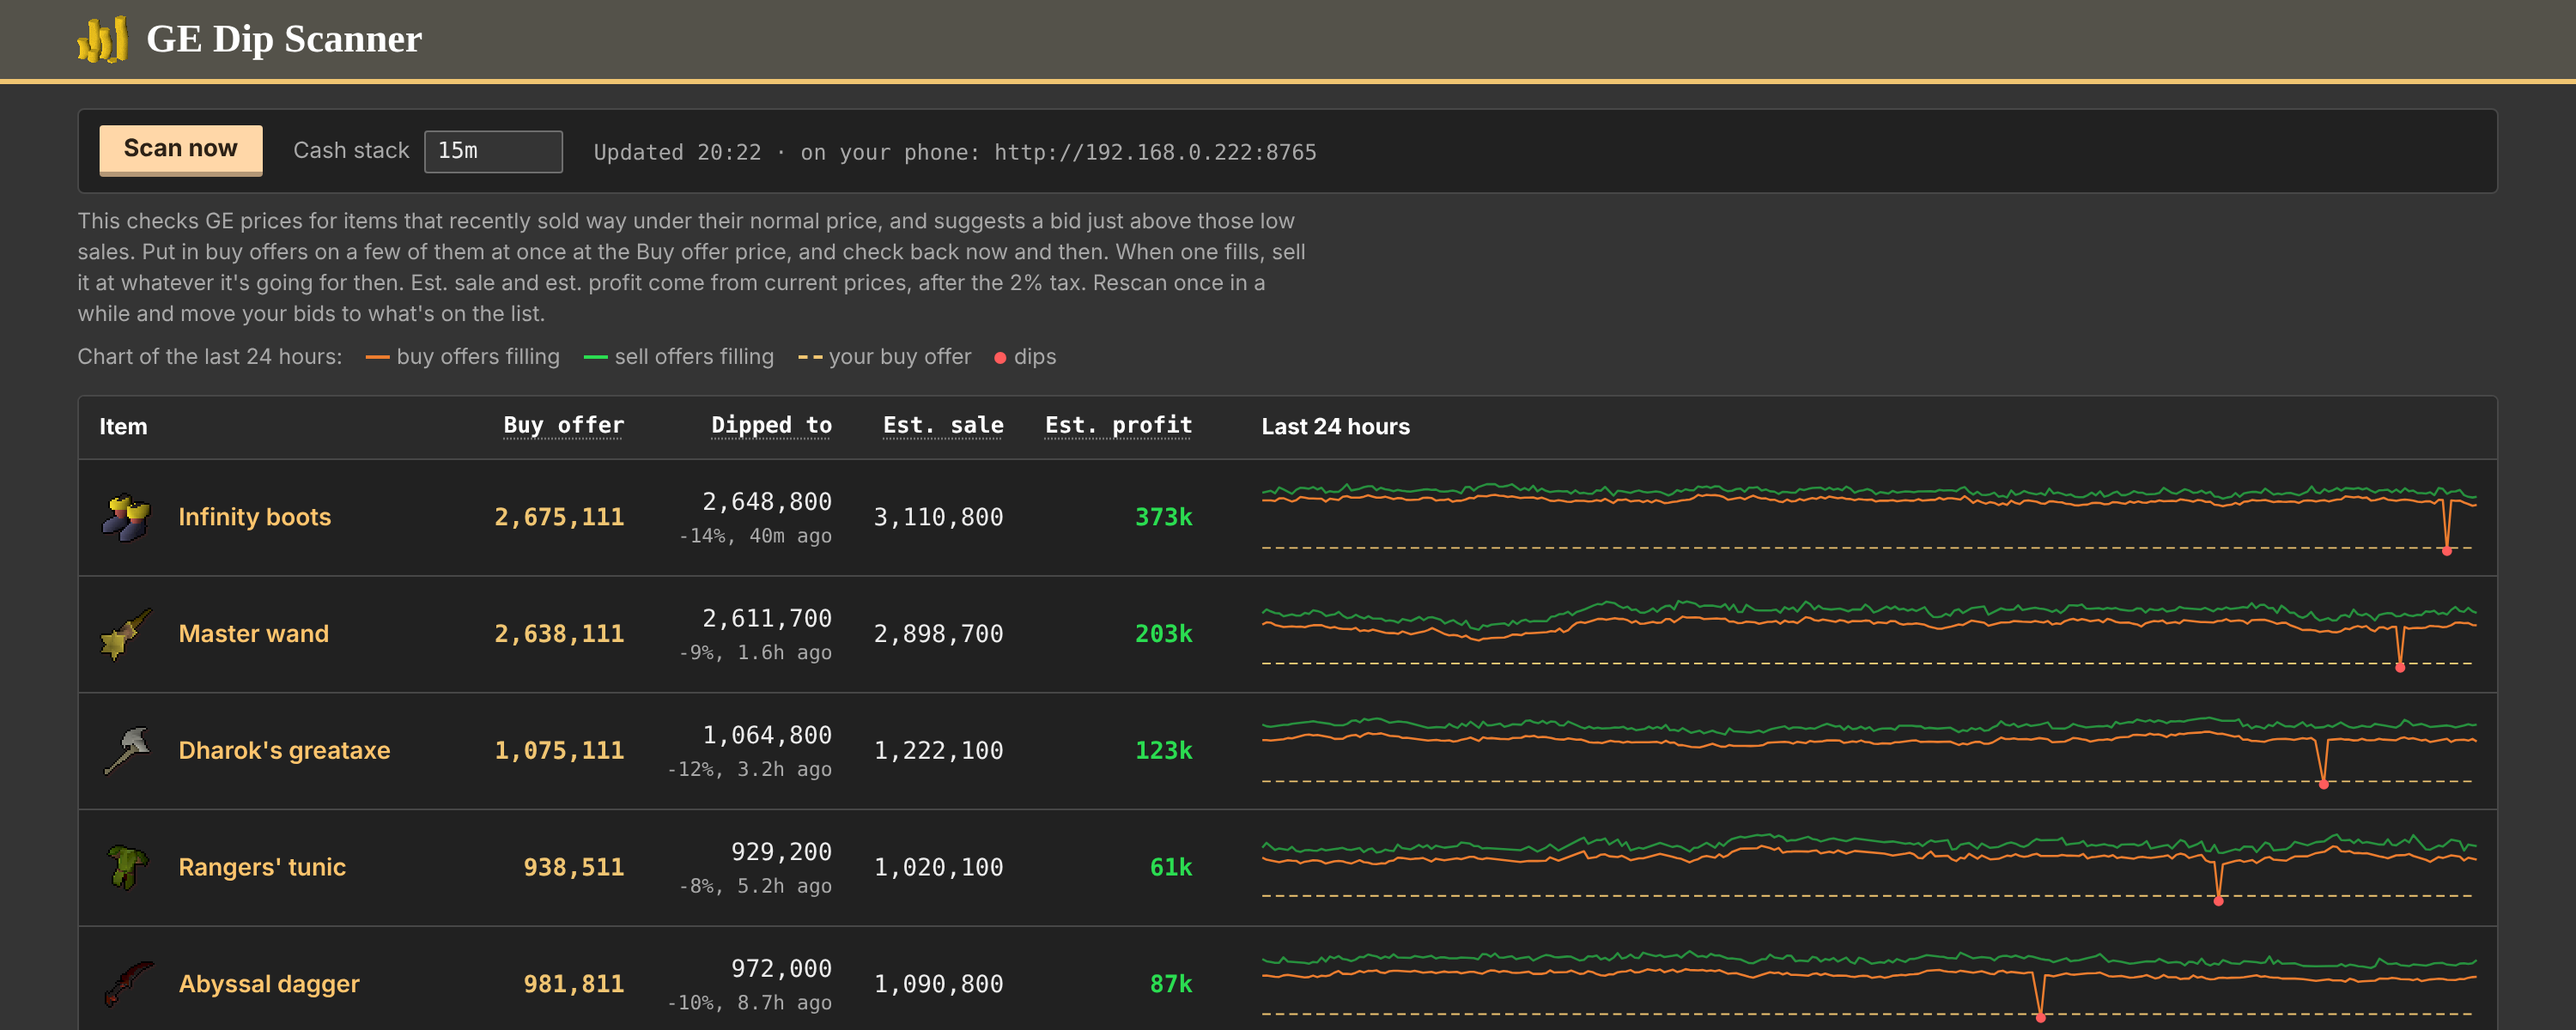
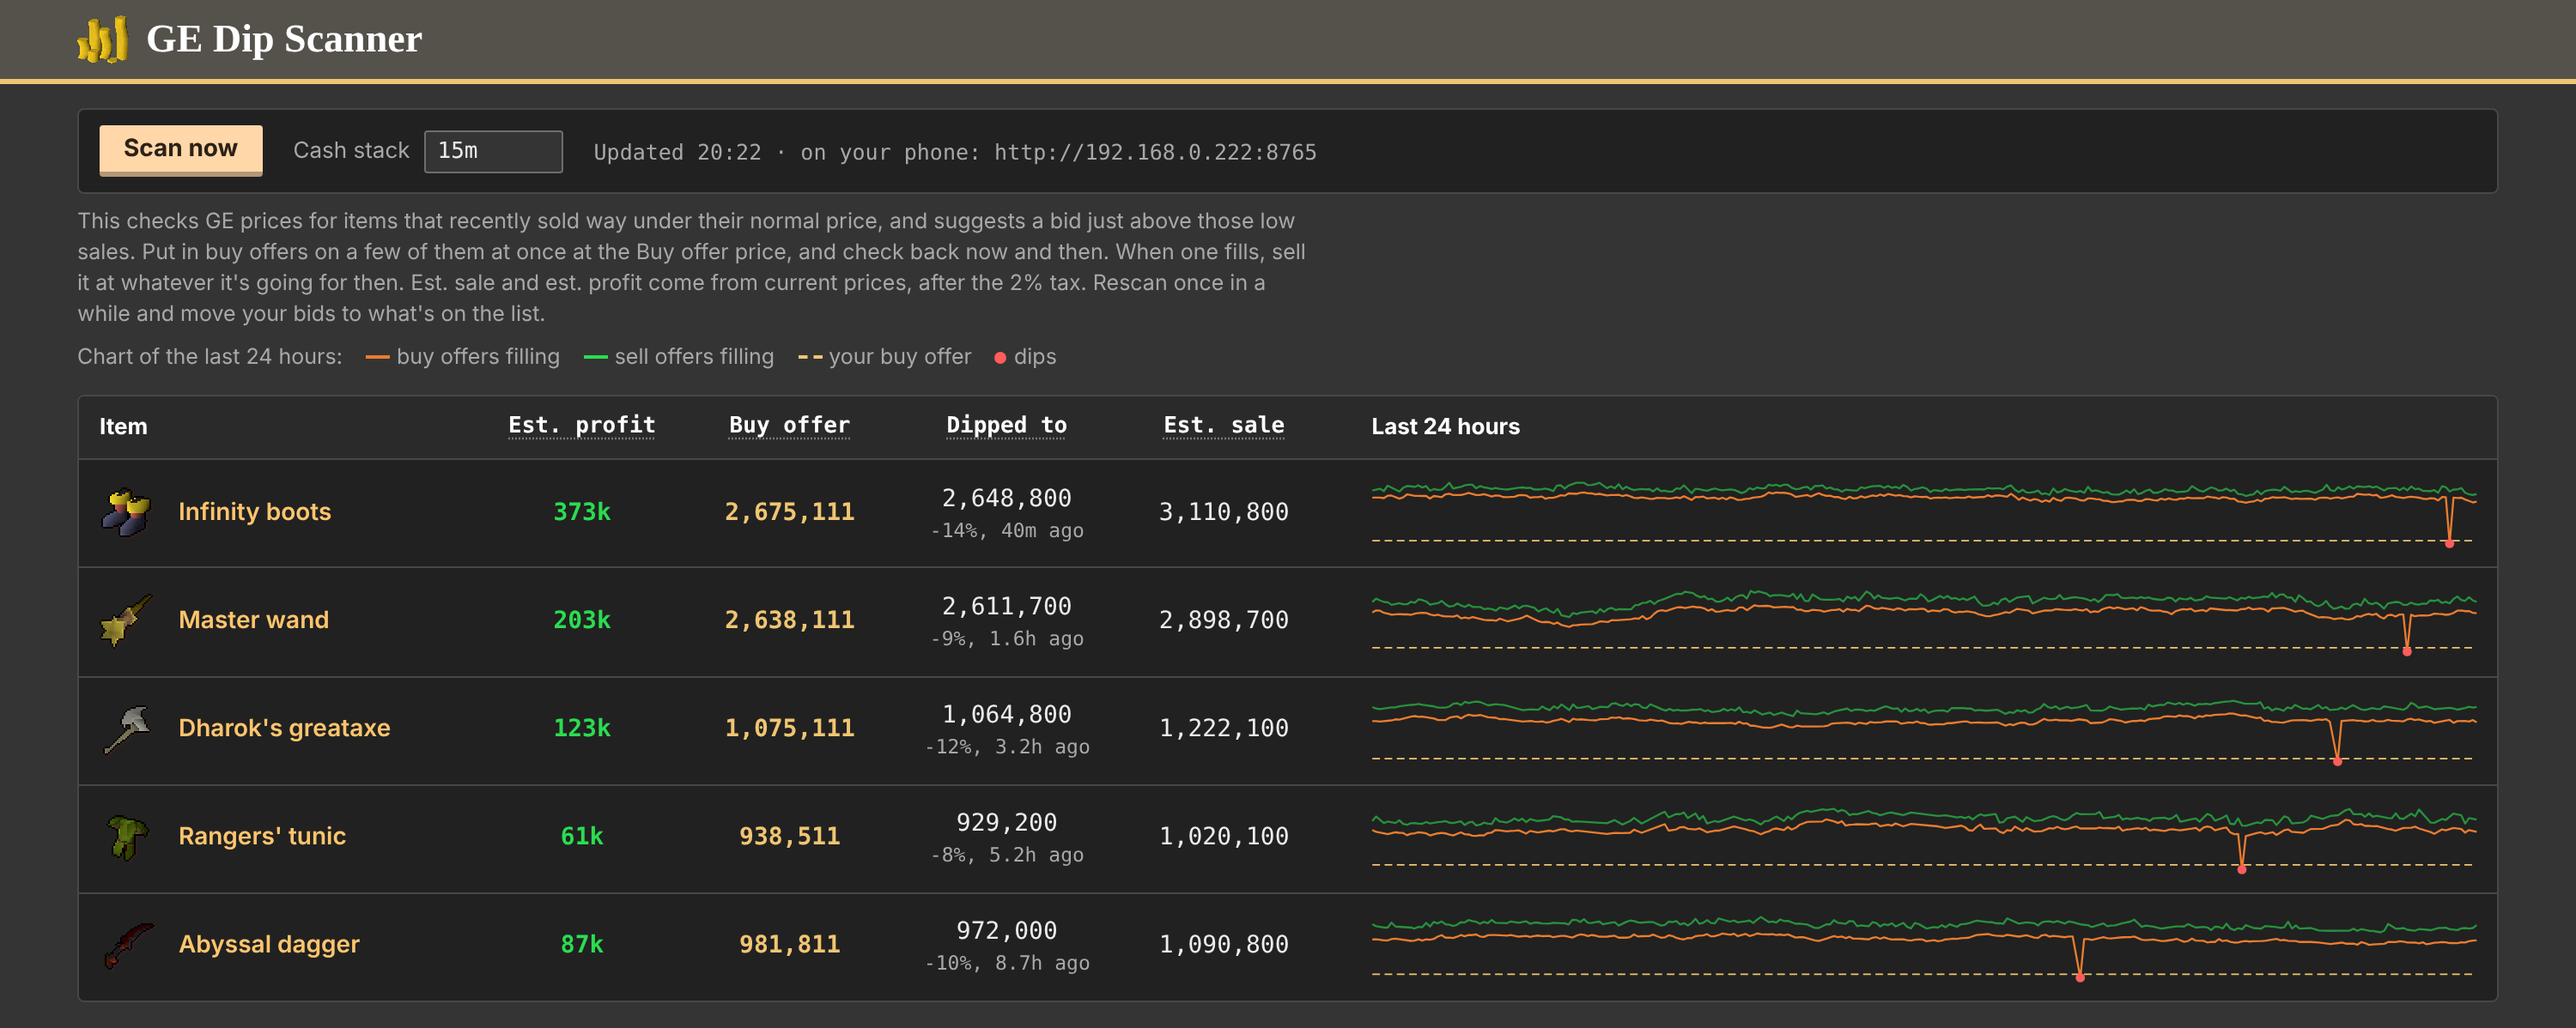
Est. profit first after the item; numbers centred with even spacing
Columns: Item, Est. profit, Buy offer, Dipped to, Est. sale, Last 24 hours. The
green profit separates the gold item name from the gold Buy offer, and centred
numbers remove the lopsided gap after short item names. On phones Est. profit and
Buy offer are the top row of each card.

diff --git a/dip_scanner.py b/dip_scanner.py
@@ -603,10 +603,10 @@ def row_html(r, now):
     return f"""
 <tr data-id="{it['id']}">
   <td class="name"><div class="namewrap">{icon_html(it)}<div><a href="{ITEM_PAGE.format(it['id'])}" target="_blank" rel="noopener">{escape(it['name'])}</a></div></div></td>
+  <td class="num profit" data-label="Est. profit">{gp(p['profit'])}</td>
   <td class="num buy" data-label="Buy offer">{p['bid']:,}</td>
   <td class="num dip" data-label="Dipped to">{round(dip['low']):,}<div class="sub">-{dip['pct']:.0f}%, {ago(dip['ts'], now)}</div></td>
   <td class="num sell" data-label="Est. sale">{round(r['sell_at']):,}</td>
-  <td class="num profit" data-label="Est. profit">{gp(p['profit'])}</td>
   <td class="chart">{sparkline(r)}</td>
 </tr>"""
 
@@ -645,14 +645,15 @@ main {{ padding:0 max(16px, 3vw); max-width:1640px; margin:0 auto }}
 table {{ border-collapse:collapse; width:100%; min-width:960px }}
 tbody tr:hover td {{ background:rgba(255,255,255,.035) }}
 th.chart, td.chart {{ padding-left:28px }}
-td.name {{ white-space:nowrap }}
+td.name {{ white-space:nowrap; padding-right:28px }}
 th {{ text-align:left; font-size:13px; color:#fff; padding:9px 12px; border-bottom:1px solid var(--line);
   font-weight:700; white-space:nowrap; background:#2a2a2a }}
 td {{ padding:6px 12px; border-bottom:1px solid var(--line); vertical-align:middle }}
 tr:last-child td {{ border-bottom:0 }}
 td.empty {{ color:var(--muted); padding:24px 12px }}
-.num {{ font-family:var(--mono); font-variant-numeric:tabular-nums; text-align:right; white-space:nowrap }}
-th.num {{ text-align:right }}
+.num {{ font-family:var(--mono); font-variant-numeric:tabular-nums; text-align:center; white-space:nowrap }}
+td.num, th.num {{ padding-left:20px; padding-right:20px }}
+th.num {{ text-align:center }}
 .name {{ min-width:230px }}
 .namewrap {{ display:flex; align-items:center; gap:10px }}
 .icon {{ width:36px; height:32px; object-fit:contain; flex:none; image-rendering:pixelated }}
@@ -694,7 +695,7 @@ th[title] {{ cursor:help; text-decoration:underline dotted #777; text-underline-
   td.name {{ grid-column:1 / -1; min-width:0; white-space:normal }}
   td.chart {{ grid-column:1 / -1; order:1; padding:0 }}
   td.chart .spark {{ width:100%; height:auto }}
-  td.num {{ text-align:left; font-size:16px }}
+  td.num {{ text-align:left; font-size:16px; padding:0 }}
   td.num::before {{ content:attr(data-label); display:block; font:600 11px var(--sans); color:var(--muted);
     text-transform:uppercase; letter-spacing:.04em }}
 }}
@@ -713,10 +714,10 @@ bids to what's on the list.</p>
 </div>
 <div class="wrap"><table>
 <thead><tr><th>Item</th>
+<th class="num" title="Est. sale minus your buy offer, after the 2% GE tax">Est. profit</th>
 <th class="num" title="The price to put your GE buy offer in at: just above the latest dip">Buy offer</th>
 <th class="num" title="The lowest price of the latest dip, how far below normal it was, and how long ago">Dipped to</th>
 <th class="num" title="Roughly what it sells for now. Check the price again when your offer fills">Est. sale</th>
-<th class="num" title="Est. sale minus your buy offer, after the 2% GE tax">Est. profit</th>
 <th class="chart">Last 24 hours</th></tr></thead>
 <tbody>{rows}</tbody></table></div>
 </main>
